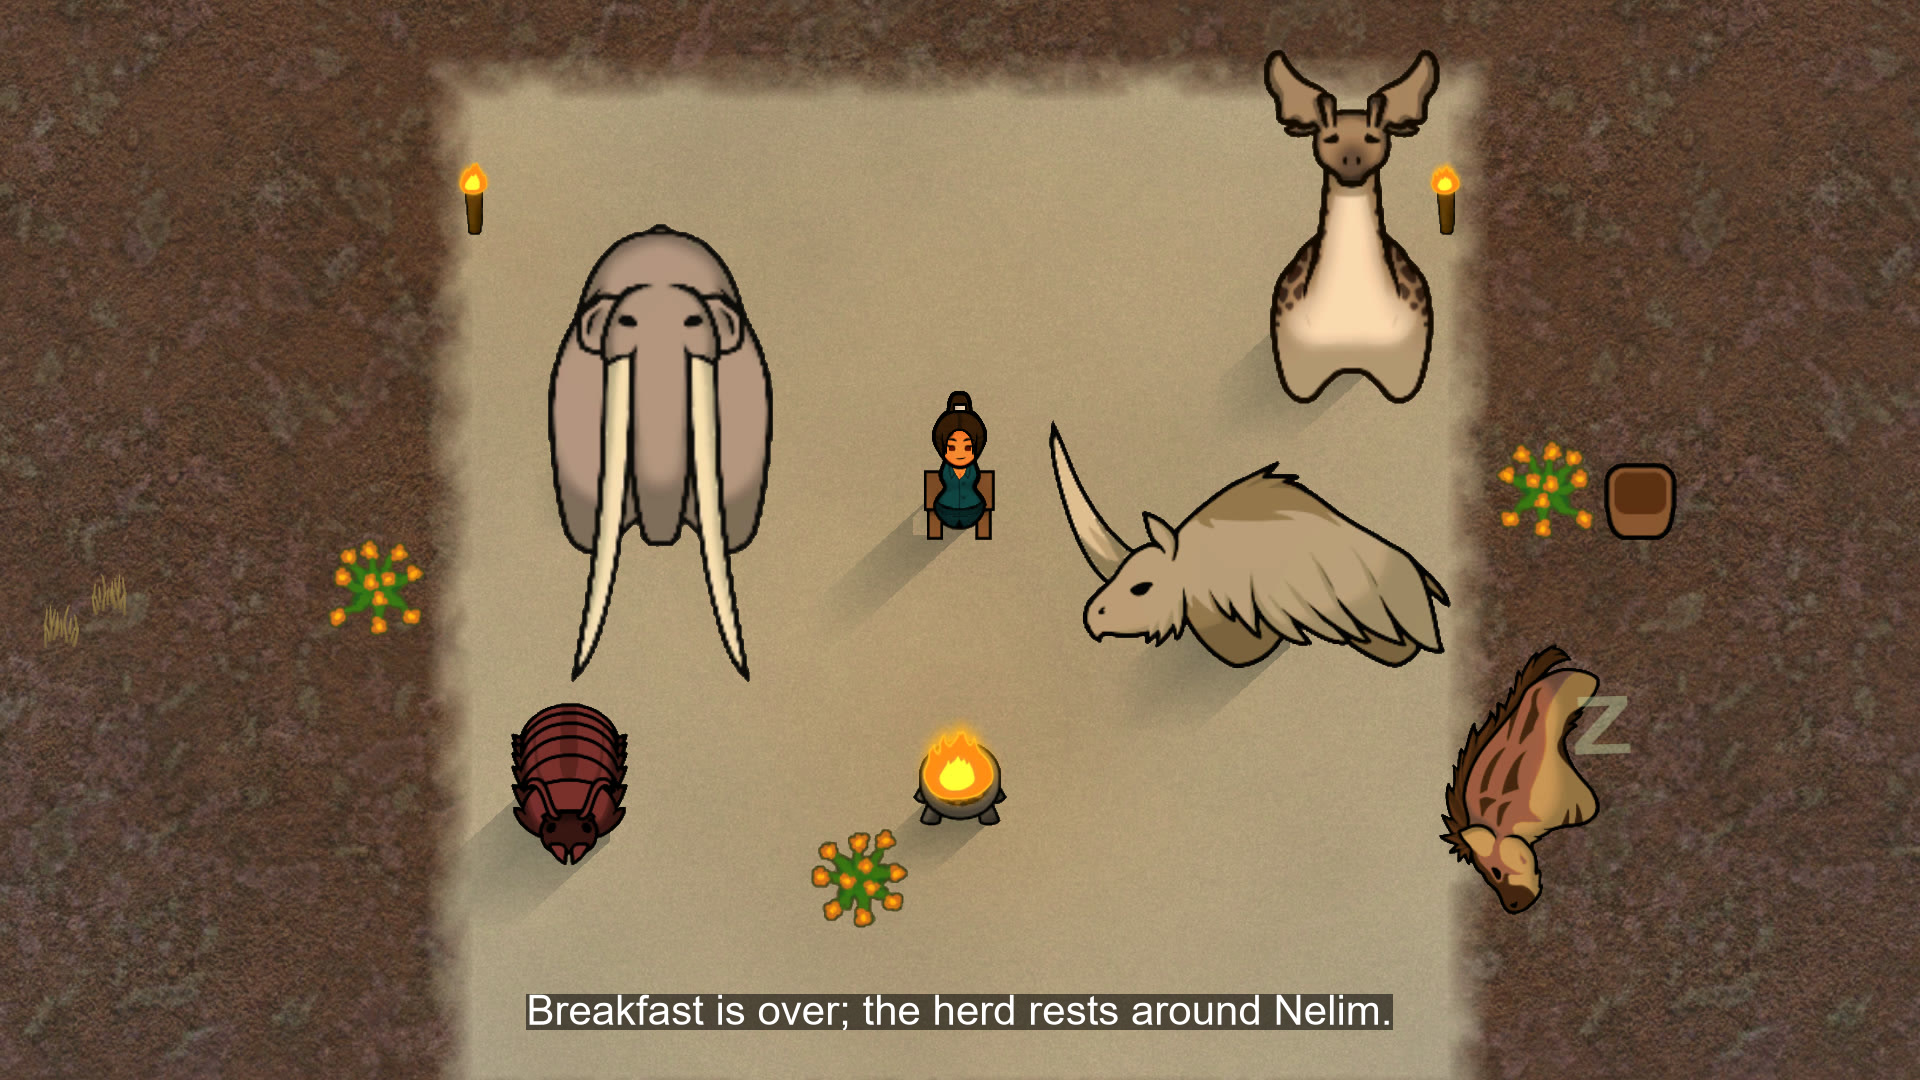
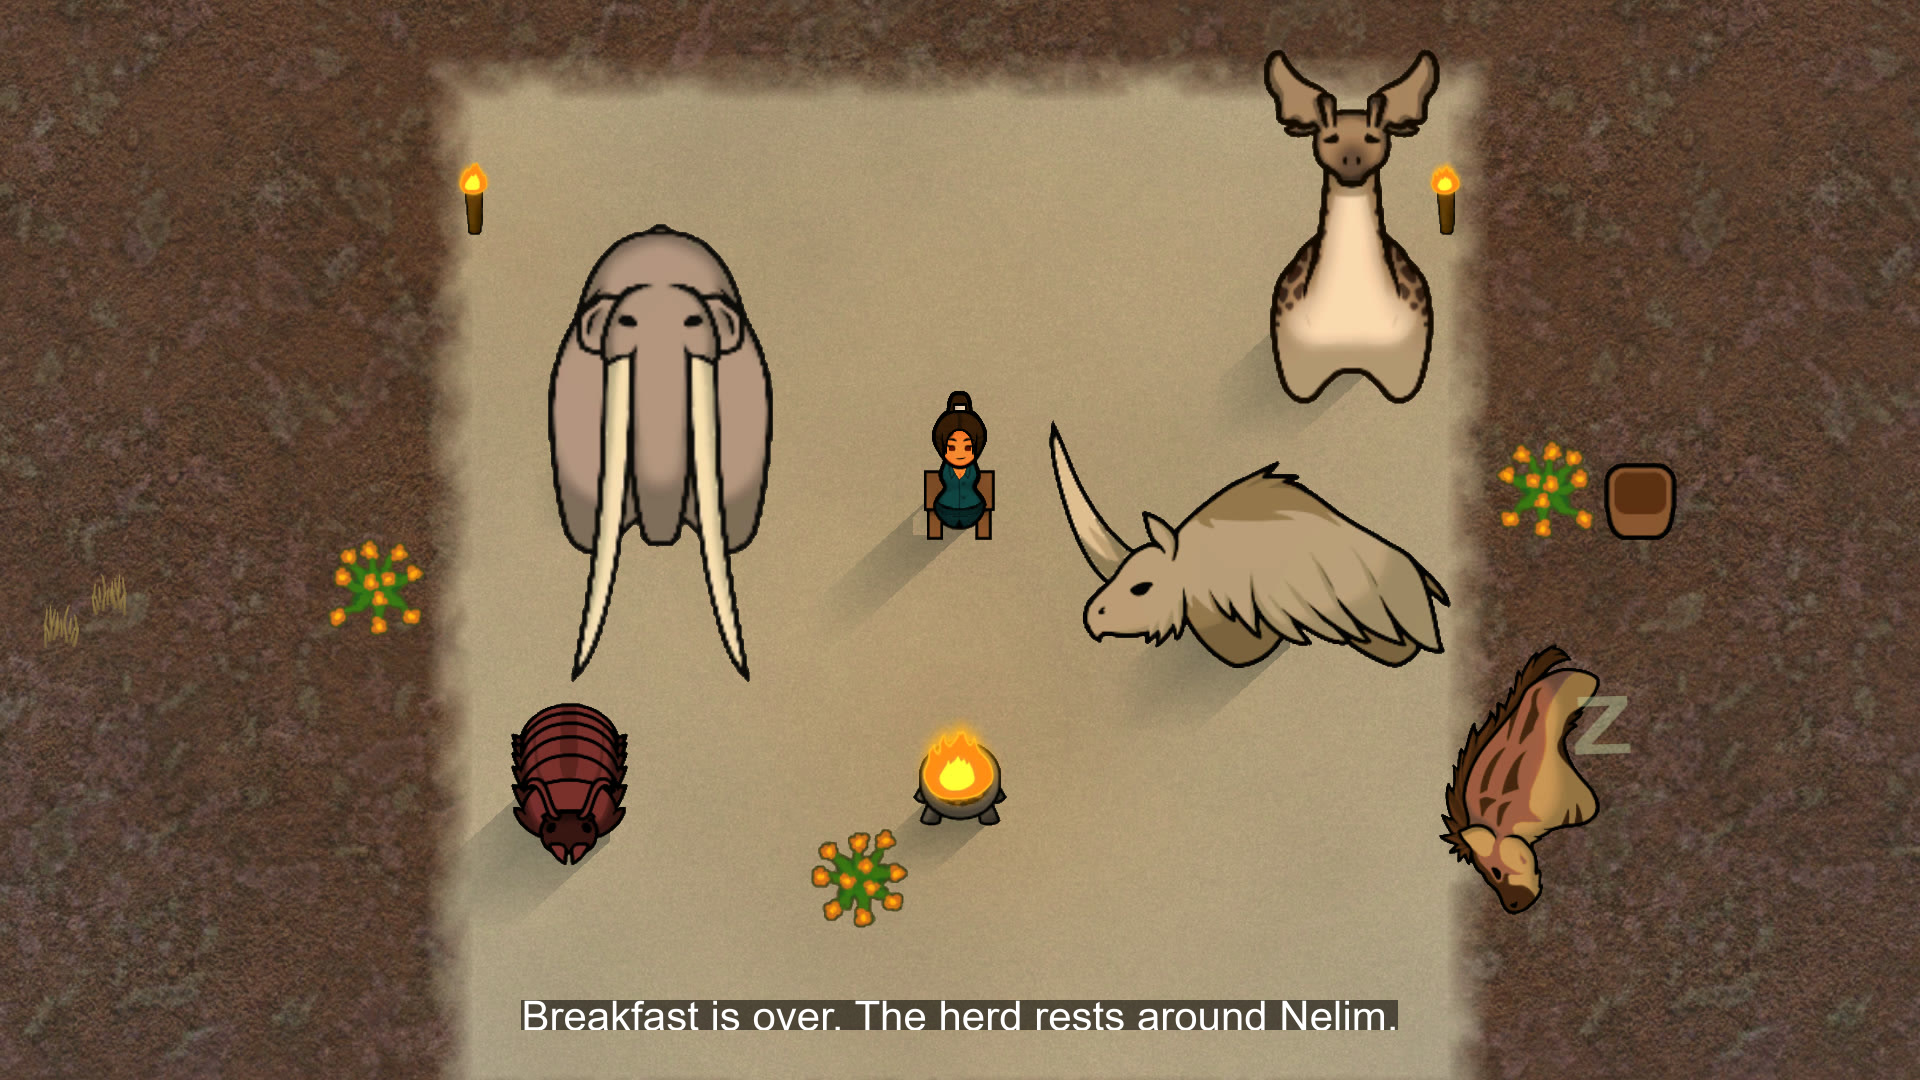
Gallery subtitle 8: semicolon replaced by a full stop

Changed region(s): [[0.25, 0.9167, 0.75, 0.9778]]

diff --git a/STATUS.md b/STATUS.md
@@ -180,7 +180,7 @@ Story: evening round 18h to 19h, next morning breakfast round 06h30 to 09h30; Ne
 | 5 | enclosure-north 06h | TorchLamp, Brazier, 6 hay piles, WoodLog, Stool, 4 Daylily | 6 browsers, 2 eat, 1 walks | hauls hay | Breakfast for the great browsers. | 5 |
 | 6 | exhibition-zone 07h | Brazier, Stool, 3 hay piles, 4 Daylily | 6 grazers, 2 eat | hauls hay | Breakfast for the strange grazers. | 5 |
 | 7 | rice-paddy 08h | Brazier, 3 WoodLog, 3 meat piles, 3 Daylily | 5 predators, 2 eat, 1 walks | hauls meat | Breakfast for the hunters. | 5 |
-| 8 | calm-zone 09h, closing | Brazier, 2 TorchLamp, Stool, bonsai, 3 Daylily, 3 hay | 5 animals, one eats the last hay | sits on Stool, South | Breakfast is over; the herd rests around Nelim. | 5 |
+| 8 | calm-zone 09h, closing | Brazier, 2 TorchLamp, Stool, bonsai, 3 Daylily, 3 hay | 5 animals, one eats the last hay | sits on Stool, South | Breakfast is over. The herd rests around Nelim. | 5 |
 
 Plan 5 on every shot (all criteria written, instant per shot), k ok (opening 1, variety wide 1 and medium, closing 8). Risks, to read on the captures: mammoth coats read alike at 268 px (coat indices -1, 1, 2), cells of 5 to 8 guessed from place centres, woodpile haul source in shot 1, crowded frame in 6 and 7, Brazier placement near animals. Verdict of v3.4 captures (REDO) is the gap this list learns from.
 

diff --git a/PUBLICATION.md b/PUBLICATION.md
@@ -90,7 +90,7 @@ subtitled image goes in `Art/Gallery/`, both under 2 MB. A line changes here fir
 | 5 | `5-enclosure.jpg` | Breakfast for the great browsers. |
 | 6 | `6-exhibition.jpg` | Breakfast for the strange grazers. |
 | 7 | `7-rice-paddy.jpg` | Breakfast for the hunters. |
-| 8 | `8-calm-zone.jpg` | Breakfast is over; the herd rests around Nelim. |
+| 8 | `8-calm-zone.jpg` | Breakfast is over. The herd rests around Nelim. |
 
 ## Dependencies and DLC
 
